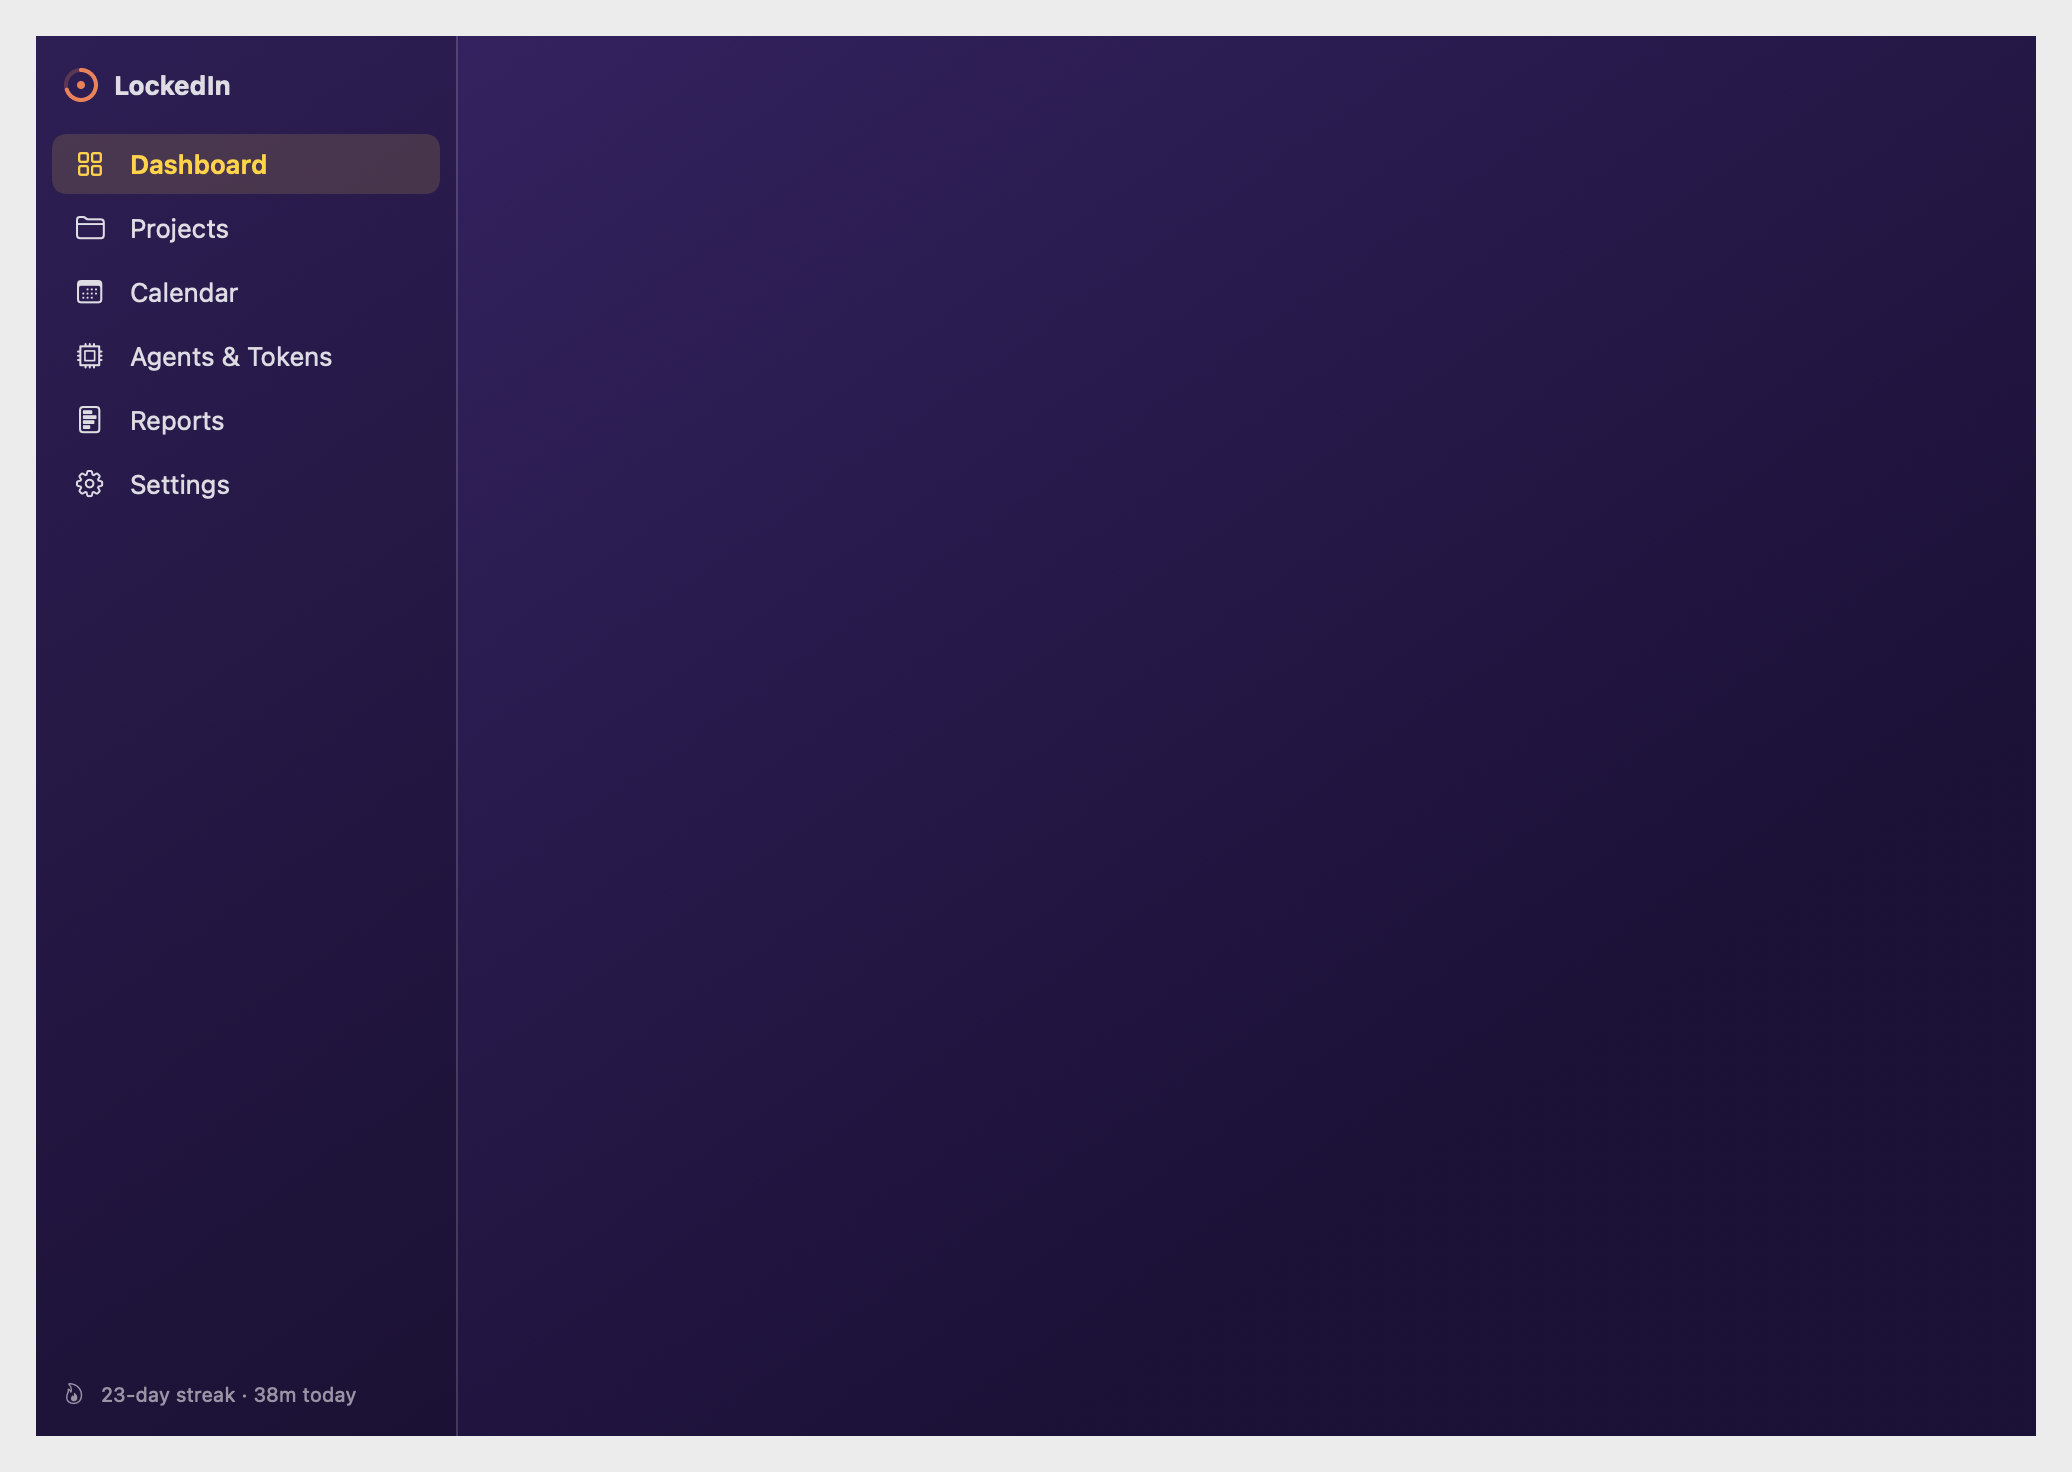
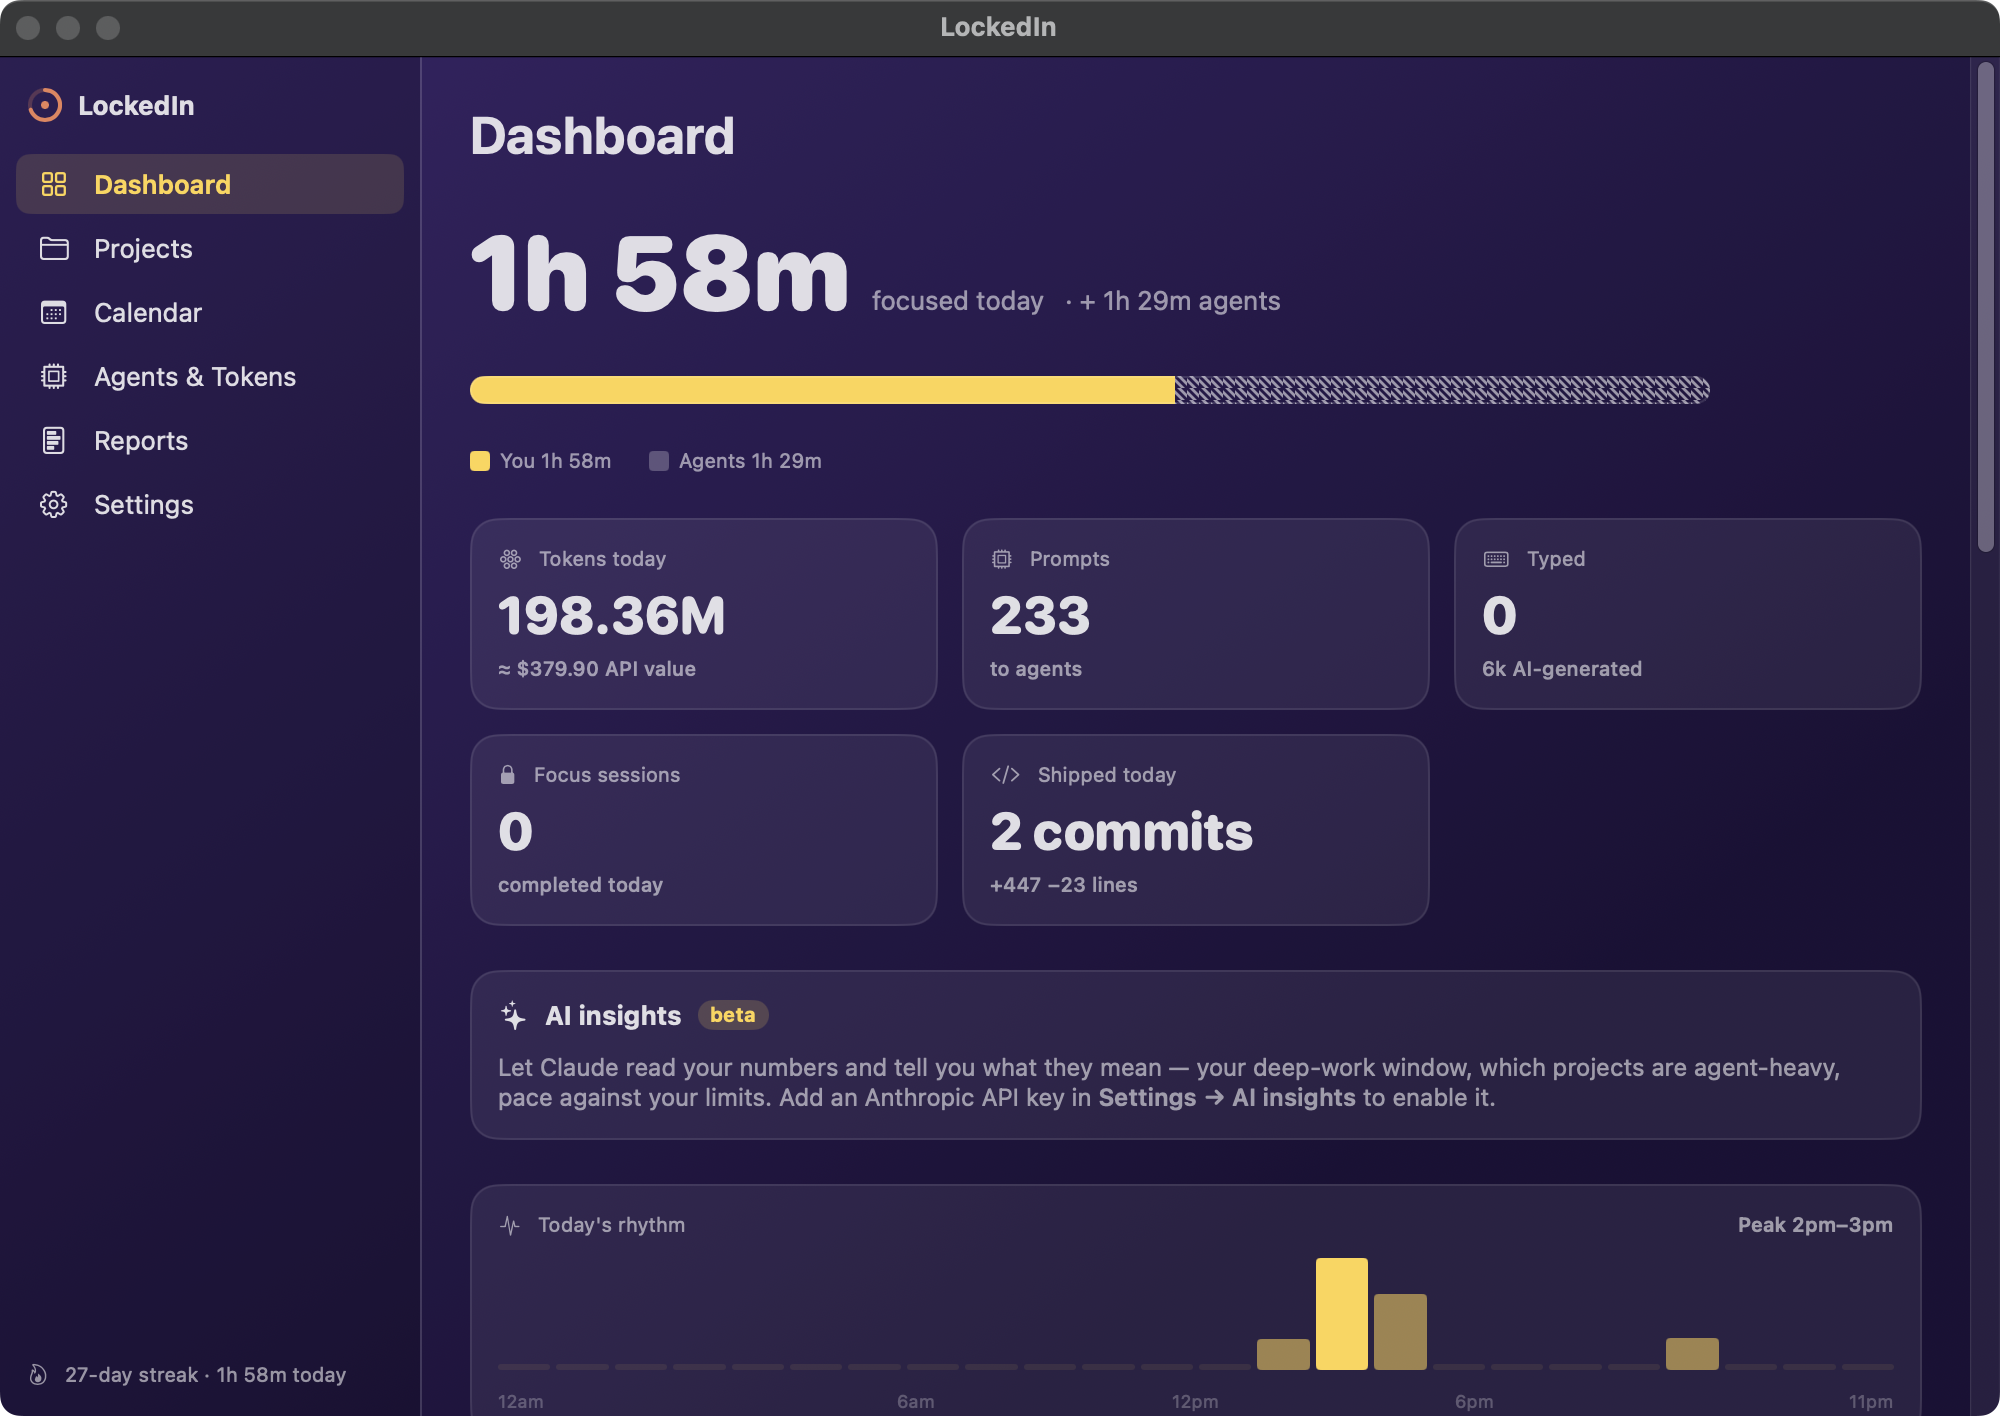
Real Retina screenshots in README + repo cleanup (-5.6 MB)
- README screenshots are now Retina window captures of the running app with real data
  (popover incl. menu-bar item, desktop widget, full dashboard) instead of synthetic
  renders (the old dashboard shot was an empty window). New --popover launch flag pops
  the popover for captures.
- Files audit: removed landing/public/shots/ (4.7 MB of old renders, zero references
  after the Console redesign) and the unreferenced .github/assets/sharecard.png.
  Landing still builds clean. No junk/temp files found; root is tidy.

diff --git a/Sources/LockedIn/App.swift b/Sources/LockedIn/App.swift
@@ -66,6 +66,10 @@ final class AppDelegate: NSObject, NSApplicationDelegate {
         refreshStatusItem()
 
         if CommandLine.arguments.contains("--dashboard") { dashboard.show() }
+        // Screenshot helper: pop the menu-bar popover shortly after launch.
+        if CommandLine.arguments.contains("--popover") {
+            DispatchQueue.main.asyncAfter(deadline: .now() + 1.5) { [weak self] in self?.togglePopover() }
+        }
         if CommandLine.arguments.contains("--test-notif") {
             DispatchQueue.main.asyncAfter(deadline: .now() + 2) { StatusMonitor.shared.sendTest() }
         }

diff --git a/README.md b/README.md
@@ -22,11 +22,13 @@ never hit a wall mid-ship.
 Built for indie hackers and solo builders who ship with Cursor and Claude Code and want
 to know where their hours actually go — including the hours the agents put in.
 
-| Popover | Desktop widget |
-|---|---|
-| ![Popover](.github/assets/popover.png) | ![Widget](.github/assets/widget.png) |
+<p align="center">
+  <img src=".github/assets/popover.png" width="330" alt="Menu-bar popover — focused time, you-vs-agent split, Claude limits">
+  &nbsp;&nbsp;
+  <img src=".github/assets/widget.png" width="334" alt="Desktop widget — today's split, tokens, limits">
+</p>
 
-![Dashboard](.github/assets/dashboard.png)
+<p align="center"><img src=".github/assets/dashboard.png" width="820" alt="Dashboard — hero split, stat cards, AI insights, daily rhythm"></p>
 
 ## Install
 